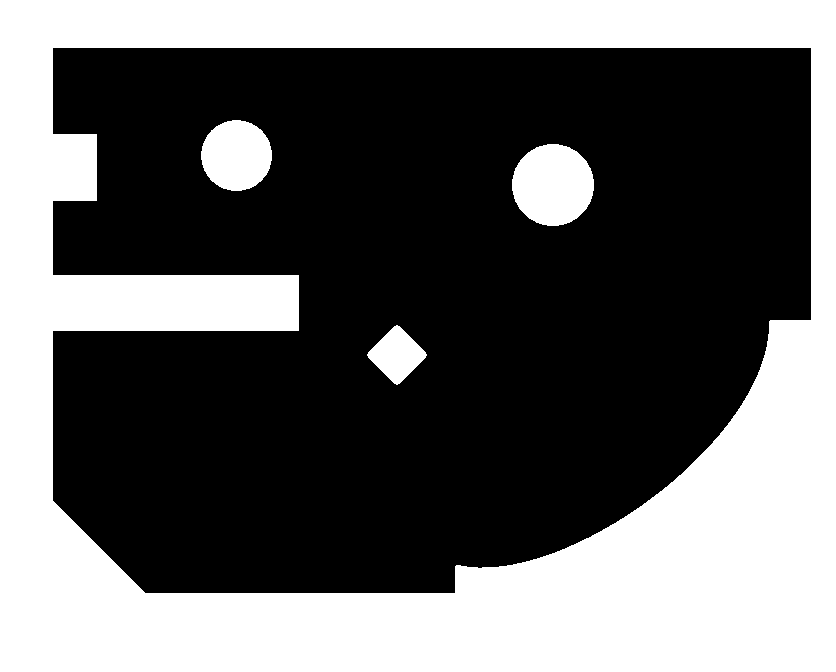
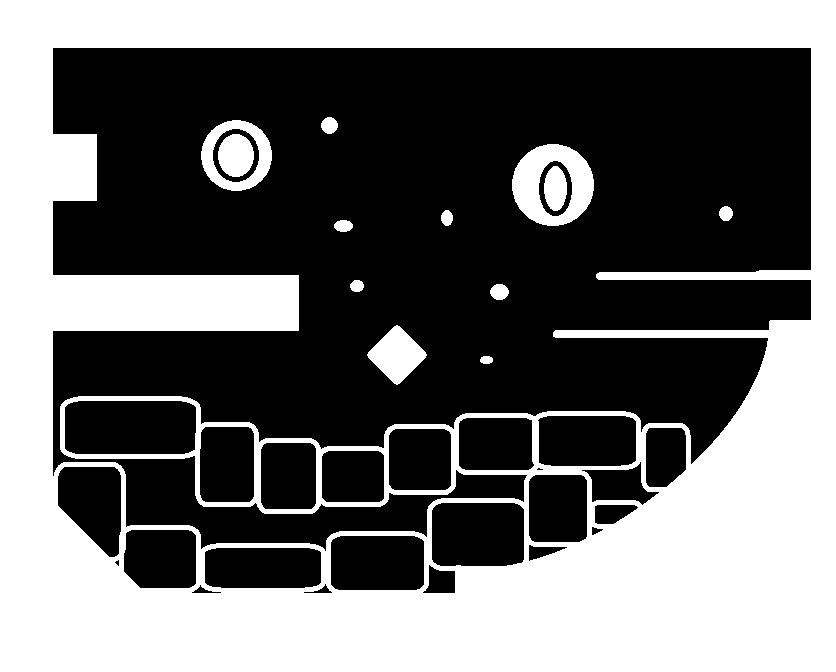
pretty fucking good physics

diff --git a/grenadudes/ball_entity.cpp b/grenadudes/ball_entity.cpp
@@ -31,6 +31,7 @@ EntityBall::EntityBall(sf::Vector2f pos, sf::Vector2f vel){
     dragging = false;
     disable = false;
     cameraPan = 0;
+    rest = false;
 }
 
 void EntityBall::event(sf::Event &e) {
@@ -51,13 +52,16 @@ void EntityBall::event(sf::Event &e) {
             mouse.x = (float)e.mouseButton.x;
             mouse.y = (float)e.mouseButton.y;
             sf::Vector2f dir = dragStart - mouse;
-            float speed = util::len(dragStart - mouse) / 15.f;
+            if (util::len(dir) != 0.f) {
+                float speed = util::len(dragStart - mouse) / 15.f;
 
-            speed = util::clamp(speed, 0.f, 10.f);
-            sf::Vector2f start = position;
-            dir = dir / util::len(dir) * speed;
+                speed = util::clamp(speed, 0.f, 12.f);
+                sf::Vector2f start = position;
+                dir = dir / util::len(dir) * speed;
 
-            velocity = dir;
+                velocity = dir;
+                rest = false;
+            }
         }
     }
 }
@@ -67,19 +71,44 @@ void EntityBall::draw(sf::RenderWindow &window) {
     spr.setOrigin(sf::Vector2f(collisionRadius, collisionRadius));
     spr.setPosition(position - world->camera);
     window.draw(spr);
+
+    /*
+    sprPoint.setTexture(txtPoint);
+    sprPoint.setOrigin(sf::Vector2f(collisionRadius, collisionRadius));
+    sprPoint.setPosition(contactPoint3 - world->camera);
+    window.draw(sprPoint);
+    
+    draw_vector(contactPoint3 - world->camera, contactPoint, 50.f, sf::Color::Yellow, window);
+    draw_vector(contactPoint3 - world->camera, contactPoint2, 50.f, sf::Color::Blue, window);
+    */
 }
 
 void EntityBall::tick(std::vector<Entity*> &entities) {
+    //std::cout << "(" << position.x << "," << position.y << ")\n";
     // centre camera
     if (!world->is_paused()) {
         sf::Vector2f screenSize((float)WINDOW_WIDTH, (float)WINDOW_HEIGHT);
         sf::Vector2f delta = (position - screenSize / 2.f) - world->camera;
         world->camera += delta * 0.05f;
     }
-
+        
     // move
     sf::Vector2f oldPos = position;
     position += velocity;
+
+    /*
+    if (util::len(oldPos - position) > 2.f) {
+        clkRest.restart();
+        rest = false;
+        //std::cout << "unrest\n";
+    }
+    */
+
+    /*
+    if (rest) {
+        return;
+    }
+    */
 
     // apply gravity
     velocity += world->gravity;
@@ -87,6 +116,16 @@ void EntityBall::tick(std::vector<Entity*> &entities) {
     // cap y speed
     if (velocity.y > BALL_TERM_VEL)
         velocity.y = BALL_TERM_VEL;
+
+    
+    /*
+    if (clkRest.getElapsedTime().asSeconds() > 1.f && !rest) {
+        rest = true;
+        //std::cout << "rest\n";
+        velocity = sf::Vector2f(0.f, 0.f);
+    }
+    */
+
 
     // find terrain
     for (Entity *e : entities) {
@@ -106,27 +145,45 @@ void EntityBall::tick(std::vector<Entity*> &entities) {
     }
 
     if (terrain) {
-        sf::Vector2f contact;
-        if (terrain->intersects_with_circle(position, velocity, collisionRadius, &contact)) { // collision with terrain
+        sf::Vector2f contact = sf::Vector2f(50.f, 50.f);
+        sf::Vector2f newPos;
+        if (terrain->intersects_with_circle(position, velocity, collisionRadius, &contact, &newPos)) { // collision with terrain
+            
+            contactPoint3 = contact;
+            position = newPos;
+            
+            //position -= velocity;
             float impactSpeed = util::len(velocity);
-            if (impactSpeed < 0.62f) impactSpeed = 0.f;
-            sf::Vector2f impactDirection = util::normalize(velocity);
+            sf::Vector2f impactDirection;
+            if (impactSpeed != 0.f)
+                impactDirection = util::normalize(velocity);
+            //if (impactSpeed < 0.62f) impactSpeed = 0.f;
+            
             // calculate vectors
-            sf::Vector2f normal = util::normalize(terrain->get_normal(contact));
-            sf::Vector2f reflect = impactDirection - 2.f * normal * (util::dot(impactDirection, normal));
+            sf::Vector2f normal = contactPoint2 = util::normalize(terrain->get_normal(contact));
+            sf::Vector2f reflect = velocity - 2.f * normal * (util::dot(velocity, normal));
             sf::Vector2f bounce = sf::Vector2f();
             //position += normal * (collisionRadius - util::len(position - contact)); // move out of collision
-            position += normal * util::len(velocity) * 1.1f;
+           // position += normal * util::len(velocity) * 1.1f;
+
             if (impactSpeed > 0.2f && impactSpeed < 3.1f) { // bounce a little
-                bounce = reflect * impactSpeed * .6f;
+                bounce = reflect * .6f;
+                //bounce += normal * 0.02f;
             }
             else if (impactSpeed >= 3.1f) { // bounce a lot
-                bounce = reflect * impactSpeed * .6f;
+                bounce = reflect * .6f;
+                //bounce += normal * 0.02f;
             }
 
-            if (util::len(bounce) < .5f)
-                bounce = sf::Vector2f();
+            if (util::dot(normal, util::normalize(reflect)) < 0.3f) {
+                bounce += normal;
+                //std::cout << "fuck\n";
+            }
 
+            //if (util::len(bounce) < .5f)
+                //bounce = sf::Vector2f();
+
+            contactPoint = bounce;
             velocity = bounce;
         }
     }

diff --git a/grenadudes/terrain_entity.cpp b/grenadudes/terrain_entity.cpp
@@ -142,7 +142,7 @@ sf::Vector2f EntityTerrain::get_normal_ground(sf::Vector2f pos) {
     return get_normal(pos);
 }
 
-bool EntityTerrain::intersects_with_circle(sf::Vector2f pos, sf::Vector2f vel, float rad, sf::Vector2f *contact) {
+bool EntityTerrain::intersects_with_circle(sf::Vector2f pos, sf::Vector2f vel, float rad, sf::Vector2f *contact, sf::Vector2f *newPos) {
     // broad phase
     bool intersects = false;
     int divisions = 16;
@@ -159,6 +159,7 @@ bool EntityTerrain::intersects_with_circle(sf::Vector2f pos, sf::Vector2f vel, f
     }
     if (!intersects) return false;
     else { // narrow phase (find contact point)
+        /*
         sf::Vector2f normalBroad = get_normal(contactBroad);
         if (util::dot(vel, normalBroad) > 0.f) normalBroad = -normalBroad;
         sf::Vector2f contactNarrow = pos + util::normalize(-normalBroad) * rad;
@@ -170,6 +171,41 @@ bool EntityTerrain::intersects_with_circle(sf::Vector2f pos, sf::Vector2f vel, f
             *contact = contactNarrow;
         else
             *contact = contactOld;
+        return true;
+        */
+        bool inside = true;
+        bool once = false;
+        *newPos = pos;
+        *contact = contactBroad;
+        float speed = fmax(1.f, util::len(vel));
+        vel = util::normalize(vel * speed);
+        if (util::len(vel) != 0.f){
+            sf::Vector2f velUnit = util::normalize(vel);
+            int max = 100;
+            int i = 0;
+            while (inside && i < max) {
+                ++i;
+                inside = false;
+                int divisions = 8;
+                float deltaAngle = (2.f * (float)M_PI) / (float)divisions;
+                for (int i=0; i<divisions; ++i) {
+                    float angle = (float)i * deltaAngle;
+                    sf::Vector2f probe(newPos->x + rad * cos(angle), newPos->y + rad * sin(angle));
+                    if (get_solid(probe)) {
+                        *contact = probe;
+                        inside = true;
+                        *newPos -= velUnit;
+                        once = true;
+                        break;
+                    }
+                }
+            }
+            //*newPos -= vel * 0.05f;
+            if (!once) {
+                std::cout << "(" << vel.x << "," << vel.y << ")\n";
+                *newPos -= vel;
+            }
+        }
         return true;
     }
 }

diff --git a/grenadudes/terrain_entity.h b/grenadudes/terrain_entity.h
@@ -32,7 +32,7 @@ public:
     sf::Vector2f get_normal_ground(sf::Vector2f pos); // get surface normal (unit) at nearest downwards ground
 
     // intersection tests
-    bool intersects_with_circle(sf::Vector2f pos, sf::Vector2f vel, float rad, sf::Vector2f *contact);
+    bool intersects_with_circle(sf::Vector2f pos, sf::Vector2f vel, float rad, sf::Vector2f *contact, sf::Vector2f *newPos);
 
     void event(sf::Event &e);
     void tick(std::vector<Entity*> &entities);

diff --git a/grenadudes/ball_entity.h b/grenadudes/ball_entity.h
@@ -28,6 +28,10 @@ private:
     // physics
     bool disable;
     sf::Vector2f contactPoint;
+    sf::Vector2f contactPoint2;
+    sf::Vector2f contactPoint3;
+    sf::Clock clkRest;
+    bool rest;
 
     bool dragging; // is user dragging the mouse to select grenade direction & speed?
     sf::Vector2f dragStart;
